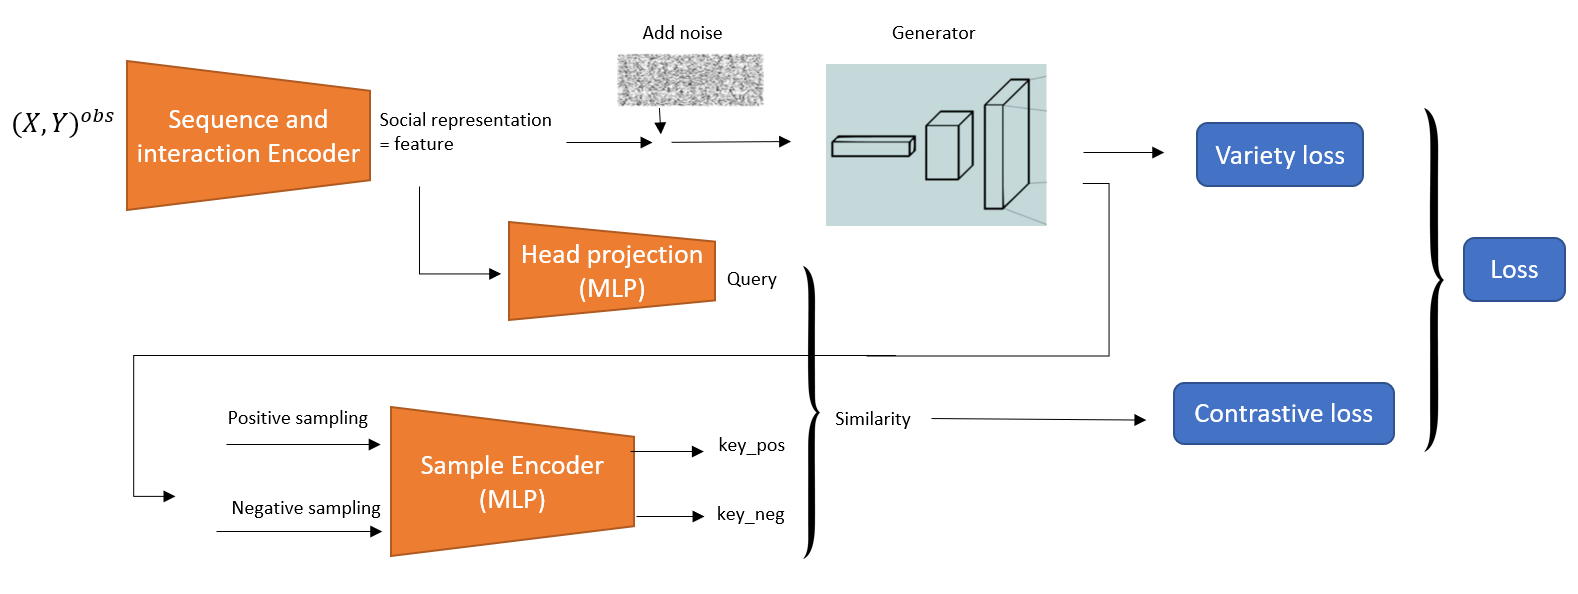
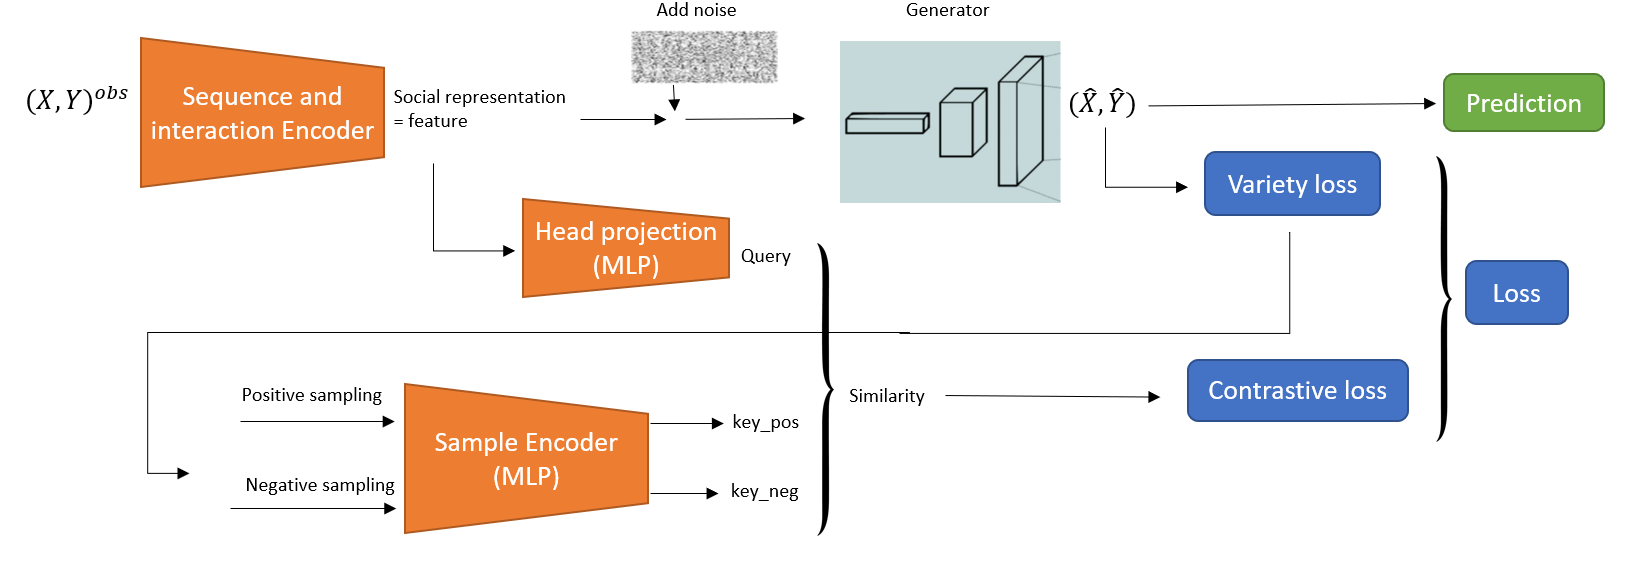
Update README

Changed region(s): [[0.0, 0.0, 0.9937, 0.9359], [0.1242, 0.8111, 0.2484, 0.9047], [0.0932, 0.8111, 0.1242, 0.8423]]

diff --git a/README.md b/README.md
@@ -42,7 +42,7 @@ TrajNet++ is a large scale interaction-centric trajectory forecasting benchmark 
  
  &nbsp;&nbsp;&nbsp;&nbsp;&nbsp;&nbsp;2.5 [ Observations ](#mi_2_obs)
 
-3. [ Multimodal Prediction & TrajNet++ Challenge ](#mi_3)
+3. [ Milestone 3: Multimodal Prediction & TrajNet++ Challenge ](#mi_3)
 
  &nbsp;&nbsp;&nbsp;&nbsp;&nbsp;&nbsp;3.1 [ Implementation details ](#mi_3_1) 
  
@@ -190,9 +190,12 @@ To sum up, the overall best performing model we trained (i.e. the one embedding 
 
 
 <a name="mi_3"></a>
-## ᐅ Multimodal Prediction & TrajNet++ Challenge
+## ᐅ Milestone 3: Multimodal Prediction & TrajNet++ Challenge
 
-In 3rd milestone, we trained the three off the shelf multimodal baselines of the TrajNet++ framework, i.e. Social GAN, variety loss (SGAN without the discriminator) and conditional variational autoencoder (VAE). We carefully took into account results obtained from milestone 2, especially the power of contrastive learning to obtain better scores. We have successfully incorporated new modifications in the existing trajectory forecasting models based on the knowledge learned in the course, including fine-tuning of the contrastive weight parameter. In the end, for the open-ended part, we decided to use SGAN without discriminator and Contrastive Learning to combine the multimodal power of GAN network with the collision rate reduction effect of NCE. With a minimal FDE, this combination of techniques allowed us to get a high position on AICrowd ranking. The figure below depicts the network architecture applied in the 3rd milestone:
+In milestone 3, we trained the three off the shelf multimodal baselines of the TrajNet++ framework, i.e. Social GAN, variety loss (SGAN without the discriminator) and conditional variational autoencoder (VAE). We carefully took into account results obtained from milestone 2, especially the power of contrastive learning to obtain better scores. We have successfully incorporated new modifications in the existing trajectory forecasting models based on the knowledge learned in the course, including fine-tuning of the contrastive weight parameter. In the end, for the open-ended part, we decided to use SGAN without discriminator and contrastive learning to combine the multimodal power of GAN network with the collision rate reduction effect of NCE. With a minimal FDE, this combination of techniques allowed us to get a high position on AICrowd ranking. The figure below depicts the network architecture applied in the 3rd milestone.
+
+
+**Network architecture**
 
 <img src="README_figures/milestone_3/architecture_diagram.png">
 
@@ -200,7 +203,7 @@ In 3rd milestone, we trained the three off the shelf multimodal baselines of the
 <a name="mi_3_1"></a>
 ### 1) Implementation details
 
-The implementation of contrastive learning in the Social GAN multimodal baseline was highly similar to the one applied in LSTM. In fact, we basically replicated the function `contrastive_loss` used in milestone 2 to compute the contrastive loss with the LSTM-based network inside the function `loss_criterion` of `sgan/trainer.py`. Nearly all the parameters needed in this task were already prepared to compute the variety loss and we just had to find a way to retrieve the parameters `batch_scene` and `batch_feat`. `batch_scene` (i.e. the tensor containing the trajectories of all the pedestrians in the scene) is available in the `train_batch` function from which the `loss_criterion` function is called. Hence, we modified the signature of `loss_criterion` to integrate this new parameter. As for the other variable `batch_feat` (i.e. the tensor containing the encoded representation of the observed trajectories created by the interaction and sequence encoder), we had just to modify the `forward` method of the `SGAN` class in `sgan.py` such that it returns the `batch_feat` computed by the generator for the last predicted scene. Of course, we had to call the projection head and the spatial encoder at the top of the `contrastive_loss` (along with other parameters such as the `temperature` required for Contrastive Learning), but apart from that the content and the principle of positive and negative sampling used in this `contrastive_loss` function are exactly the same as the ones used in milestone 2.
+The implementation of contrastive learning in the Social GAN multimodal baseline was highly similar to the one applied in LSTM. In fact, we basically replicated the function `contrastive_loss` used in milestone 2 to compute the contrastive loss with the LSTM-based network inside the function `loss_criterion` of `sgan/trainer.py`. Nearly all the parameters needed in this task were already prepared to compute the variety loss and we actually just had to find a way to retrieve the parameters `batch_scene` and `batch_feat`. `batch_scene` (i.e. the tensor containing the trajectories of all the pedestrians in the scene) is available in the `train_batch` function from which the `loss_criterion` function is called. Hence, we modified the signature of `loss_criterion` to integrate this new parameter. As for the other variable `batch_feat` (i.e. the tensor containing the encoded representation of the observed trajectories created by the interaction and sequence encoder), we had just to modify the `forward` method of the `SGAN` class in `sgan.py` such that it returns the `batch_feat` computed by the generator for the last predicted scene. Of course, we had to call the projection head and the spatial encoder at the top of the `contrastive_loss` (along with other parameters such as the `temperature` required for contrastive learning), but apart from that the content and the principle of positive and negative sampling used in this `contrastive_loss` function are exactly the same as the ones used in milestone 2.
 
 
 
@@ -224,20 +227,25 @@ The table below summarizes the results in terms of FDE and COL-I we obtained fro
 | 1               | **1.17** | 7.22  |
 | 0.5             | 1.18 | 7.58  |
 
-As we can observe, SGAN generally provides better results than VAE which presents much higher FDE and COL-I scores. In addition to this, our method combining SGAN without the discriminator and contrastive learning (second table) tends to perform better than the standard SGAN being available in the TrajNet++ framework. Focusing now only on the second table, it can be seen that the model with `contrast_weight` of 2 presents the smallest COL-I with a value of 6.26. This value is much higher than what we obtained in milestone 2 where we bottomed out at a value of 5.25. Finally, the smallest FDE score we ever achieved with a value of **1.17** has been made possible with the model using the `contrast_weight` parameter of 1. Following figure
+[*Model with `contrast_weight=1` link*](https://www.aicrowd.com/challenges/trajnet-a-trajectory-forecasting-challenge/submissions/142876).
+
+As we can observe, SGAN generally provides better results than VAE which presents much higher FDE and COL-I scores. In addition to this, our method combining SGAN without the discriminator and contrastive learning (second table) tends to perform better than the standard SGAN being available in the TrajNet++ framework. Focusing now only on the second table, it can be seen that the model with `contrast_weight` of 2 presents the smallest COL-I with a value of 6.26. This value is much higher than what we obtained in milestone 2 where we bottomed out at a value of 5.25. Finally, the smallest FDE score we ever achieved with a value of **1.17** has been made possible with the model using the `contrast_weight` parameter of 1. To realize the validity of the FDE score, we trained our model with `contrast_weight` of 1 on the dataset `five_parallel_synth` for which we have the ground truth. We then run the models and predicted a scene using the built-in visualization feature of TrajNet++. Following figure depicts this scene in which it can be noticed that the predicted trajectory of the primary pedestrian (thick blues line) matches pretty well the ground truth (thick black line).
+
 
 <img src="README_figures/milestone_3/predictions/visualize.scene44977.png">
 
 
 
  
-**Visualizations**
+**Training losses visualization**
 
 <img src="README_figures/milestone_3/learning_curves/SGAN-loss-history-different-contrastive-weights.png">
 
 The training curves above represent the loss history of our three SGAN models without discriminator and with contrastive learning. These three models have been trained each time on both real and synthetic data. For instance, “re_cw_0.5” corresponds for instance to the model trained on real data with a `contrast_weight` of 0.5. Semi-transparent surfaces show the boundaries of the min and max values of the different losses along the 15 epochs of training. It appears that this gap remains quite large throughout the training. The actual loss curves (colorful lines) are the mean of the losses across the different batches. As seen from the second table above, the best FDE has been obtained with a `contrast_weight` of 1 (orange curve for real_data and violet curve for synth_data).
 
 The reason why the model presenting the lowest FDE doesn’t correspond to the lowest loss curve is probably that the loss doesn’t describe the actual performance of the network. In fact, it is difficult to directly deduce only from the aspect of the loss the performance of the network on the various metrics. For instance, a model with a very low FDE and a high COL-I might present a loss curve with higher values than a model with conversely a higher FDE but a lower COL-I. Another intuition we have is that our model with a `contrast_weight` of 0.5 could overfit a bit. This would imply that the training curve appears more promising (i.e. lower in the graph) than the corresponding validation curve (which is here not available). Especially for the very bottom curve, we observe that at epoch 10, the loss drops a bit. This is due to the fact that the learning rate scheduler is program to reduce the learning rate each 10 epochs. This boosts the learning process and improves slightly the training performance.
+
+**Trajectories visualization**
 
 <img src="README_figures/milestone_3/predictions/sampling_scene_7.png">
 
@@ -260,6 +268,7 @@ The field of autonomous vehicles encompasses various pillars among which “perc
 
 Thanks to the provided TrajNet++ framework, we began this journey with a simple Vanilla model and ended up with an advanced Social GAN without discriminator able to output multimodal futures and whose loss combines advantages from variety loss and NCE loss. The picture below is taken from the [reference paper](https://arxiv.org/pdf/2012.11717.pdf) and illustrates the social contrastive learning concept. Combined with a multimodal baseline such as Social GAN, the contrastive learning method promotes the social awareness of neural motion models for various possible futures. We hope that the idea of putting these two techniques together can contribute in some way to the development of socially-aware AI.
 
+**Illustration of social contrastive learning**
 
 <img src="README_figures/milestone_3/social_contrastive_learning.png">
 
